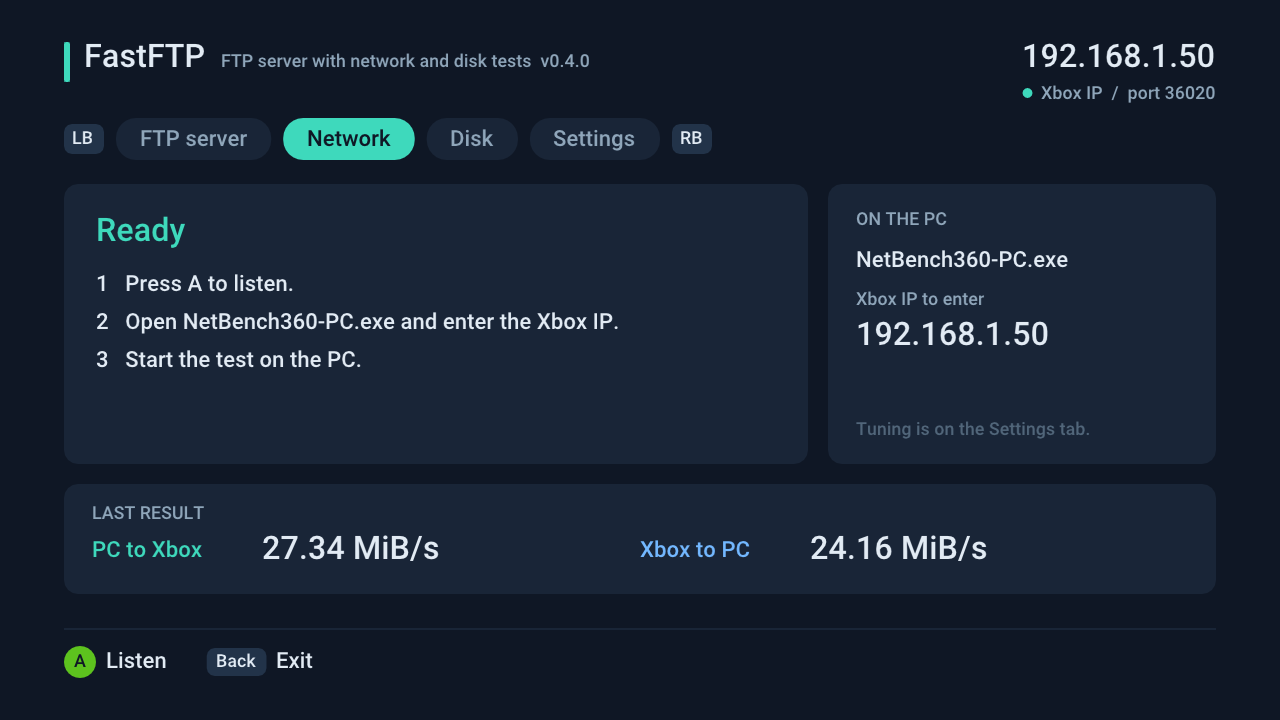
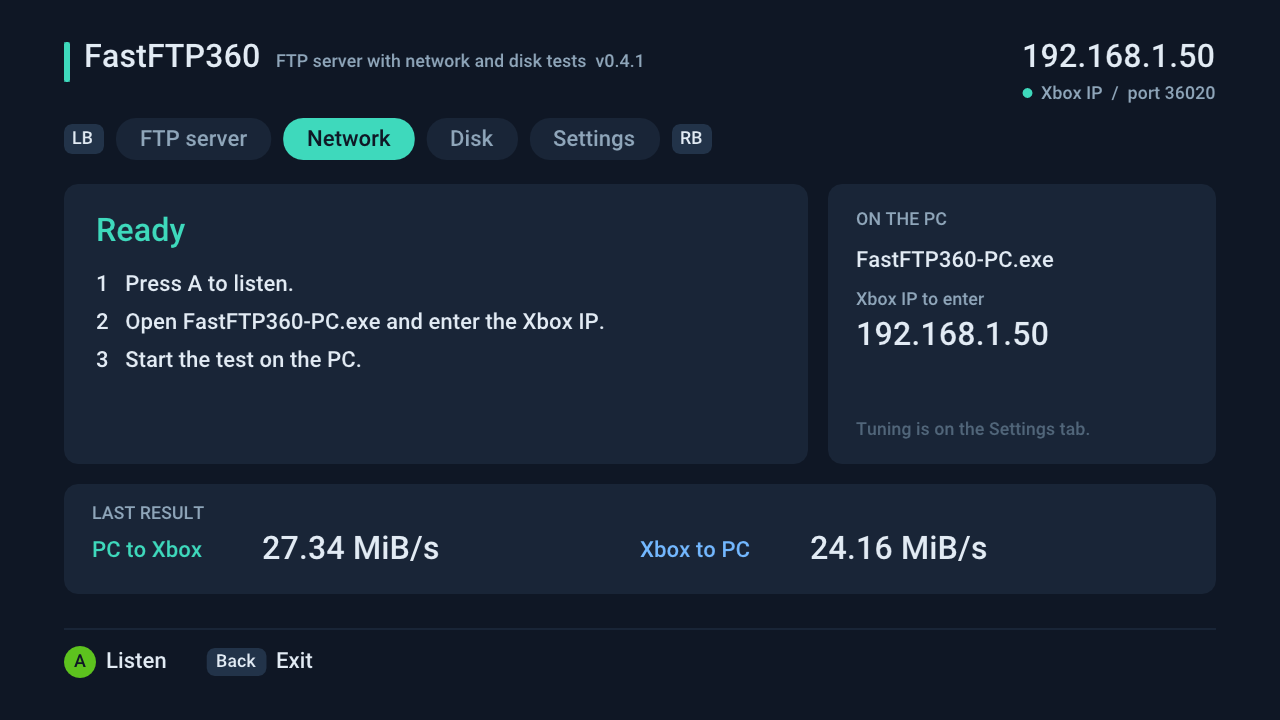
Rename the app to FastFTP360
FastFTP is also the name of other FTP tools, so the app, PC app, solution,
settings and log files, logo and screenshots now say FastFTP360. A login
saved in the old FastFTP.ini is still read when FastFTP360.ini is missing.

Claude-Session: https://claude.ai/code/session_01MH4np41oYb3iuEGTSw1Z1c

Changed region(s): [[0.125, 0.4278, 0.5, 0.4583], [0.1562, 0.0611, 0.5, 0.0917], [0.6562, 0.3361, 0.8438, 0.3972]]

diff --git a/xbox/main.cpp b/xbox/main.cpp
@@ -29,10 +29,12 @@ static int CpuChoice=0;
 static bool DrawDuringTransfers=false;
 // FTP login. Required by default; switching it off lets any user name in.
 // The user can change both with the on-screen keyboard (Y on the FTP tab);
-// they are kept in FastFTP.ini next to the XEX.
+// they are kept in FastFTP360.ini next to the XEX.
 static bool FtpLoginRequired=true;
 static char FtpUser[nb::FtpLoginMax+1]="xboxftp",FtpPassword[nb::FtpLoginMax+1]="xboxftp";
-static const char LoginFile[]="game:\\FastFTP.ini";
+static const char LoginFile[]="game:\\FastFTP360.ini";
+// Read when FastFTP360.ini is missing, so a login saved before the rename carries over.
+static const char OldLoginFile[]="game:\\FastFTP.ini";
 // On-screen keyboard: 0 closed, 1 asking for the user name, 2 for the password.
 static int KeyboardStep=0;
 static DWORD KeyboardPad=0;
@@ -89,8 +91,8 @@ static int CompareRoots(const void* a,const void* b) {
 }
 
 // FTP log, next to the XEX. Every line starts with the local date and time.
-// A log over 1 MiB is moved to FastFTP.old.log when the server starts.
-static const char LogFile[]="game:\\FastFTP.log",OldLogFile[]="game:\\FastFTP.old.log";
+// A log over 1 MiB is moved to FastFTP360.old.log when the server starts.
+static const char LogFile[]="game:\\FastFTP360.log",OldLogFile[]="game:\\FastFTP360.old.log";
 static CRITICAL_SECTION LogLock;
 static void WriteLog(const char* text) {
     SYSTEMTIME now; GetLocalTime(&now);
@@ -118,6 +120,7 @@ static void RotateLog() {
 
 static void LoadLogin() {
     HANDLE file=CreateFile(LoginFile,GENERIC_READ,FILE_SHARE_READ,NULL,OPEN_EXISTING,FILE_ATTRIBUTE_NORMAL,NULL);
+    if(file==INVALID_HANDLE_VALUE) file=CreateFile(OldLoginFile,GENERIC_READ,FILE_SHARE_READ,NULL,OPEN_EXISTING,FILE_ATTRIBUTE_NORMAL,NULL);
     if(file==INVALID_HANDLE_VALUE) return;
     char text[512]; DWORD read=0;
     if(ReadFile(file,text,sizeof(text)-1,&read,NULL)) { text[read]=0; nb::ParseFtpLogin(text,FtpLoginRequired,FtpUser,FtpPassword); }
@@ -280,11 +283,11 @@ static DWORD WINAPI DiskThread(void*) {
     const DiskTarget& target=DiskTargets[DiskChoice];
     const DWORD block=DiskBlocks[DiskBlockChoice];
     bool linked=false;
-    const char* path="game:\\FASTFTP-DISKTEST.TMP";
+    const char* path="game:\\FASTFTP360-DISKTEST.TMP";
     if(target.device) {
         LONG status=LinkDrive("\\??\\NBDISK:",target.device);
         if(status<0) { DiskFailure("%s not found or not mountable (0x%08X).",target.name,DWORD(status)); return 0; }
-        linked=true; path="NBDISK:\\FASTFTP-DISKTEST.TMP";
+        linked=true; path="NBDISK:\\FASTFTP360-DISKTEST.TMP";
     }
     unsigned char* buffer=static_cast<unsigned char*>(VirtualAlloc(NULL,block,MEM_COMMIT,PAGE_READWRITE));
     unsigned char* check=static_cast<unsigned char*>(VirtualAlloc(NULL,block,MEM_COMMIT,PAGE_READWRITE));
@@ -497,7 +500,7 @@ static void PollKeyboard() {
     strcpy_s(FtpUser,PendingUser); strcpy_s(FtpPassword,text); FtpLoginRequired=true; DescribeSettings();
     LeaveCriticalSection(&StateLock);
     char line[80]; _snprintf_s(line,sizeof(line),_TRUNCATE,"FTP login changed on the Xbox (user %s)",PendingUser); WriteLog(line);
-    LoginMessage(SaveLogin() ? "Login changed and saved in FastFTP.ini." : "Login changed, but FastFTP.ini could not be saved.");
+    LoginMessage(SaveLogin() ? "Login changed and saved in FastFTP360.ini." : "Login changed, but FastFTP360.ini could not be saved.");
 }
 
 static bool InitGraphics() {

diff --git a/shared/ui.cpp b/shared/ui.cpp
@@ -118,11 +118,11 @@ static void Status(const UiState& s,float x,float y,float w,float h) {
             if(s.streams>1) _snprintf_s(text,sizeof(text),_TRUNCATE,"%s  /  %.1f s  /  %.1f MiB  /  %d streams",way,s.elapsed,s.mebibytes,s.streams);
             else _snprintf_s(text,sizeof(text),_TRUNCATE,"%s  /  %.1f s  /  %.1f MiB",way,s.elapsed,s.mebibytes);
         } else if(s.armed) {
-            lines[0]="Listening. In FastFTP-PC.exe on the same network,";
+            lines[0]="Listening. In FastFTP360-PC.exe on the same network,";
             lines[1]="enter the Xbox IP shown above and start the test.";
         } else {
             lines[0]="1   Press A to listen.";
-            lines[1]="2   Open FastFTP-PC.exe and enter the Xbox IP.";
+            lines[1]="2   Open FastFTP360-PC.exe and enter the Xbox IP.";
             lines[2]="3   Start the test on the PC.";
         }
     }
@@ -179,7 +179,7 @@ static void Settings(const UiState& s,float x,float y,float w,float h) {
 static void PcApp(const UiState& s,float x,float y,float w,float h) {
     Box(x,y,w,h,Hex(Card),14);
     Text(Small,x+28,y+24,Hex(Muted),"ON THE PC");
-    Text(Body,x+28,y+62,Hex(White),"FastFTP-PC.exe");
+    Text(Body,x+28,y+62,Hex(White),"FastFTP360-PC.exe");
     Text(Small,x+28,y+104,Hex(Muted),"Xbox IP to enter");
     Text(Heading,x+28,y+130,Hex(White),s.ip);
     Text(Small,x+28,y+h-46,Hex(Dim),"Tuning is on the Settings tab.");
@@ -188,9 +188,9 @@ static void PcApp(const UiState& s,float x,float y,float w,float h) {
 static void Files(float x,float y,float w,float h) {
     Box(x,y,w,h,Hex(Card),14);
     Text(Small,x+28,y+18,Hex(Muted),"FILES NEXT TO THE XEX");
-    Text(Body,x+28,y+52,Hex(White),"FastFTP.ini");
+    Text(Body,x+28,y+52,Hex(White),"FastFTP360.ini");
     Text(Body,x+200,y+52,Hex(Muted),"FTP login");
-    Text(Body,x+460,y+52,Hex(White),"FastFTP.log");
+    Text(Body,x+460,y+52,Hex(White),"FastFTP360.log");
     Text(Body,x+640,y+52,Hex(Muted),"FTP activity");
 }
 
@@ -255,15 +255,15 @@ static void Footer(const UiState& s,float y) {
 void DrawUi(const UiState& s) {
     ImGui::NewFrame();
     ImGui::SetNextWindowPos(ImVec2(0,0)); ImGui::SetNextWindowSize(ImVec2(1280,720));
-    ImGui::Begin("FastFTP",NULL,ImGuiWindowFlags_NoDecoration|ImGuiWindowFlags_NoBackground|ImGuiWindowFlags_NoInputs|ImGuiWindowFlags_NoSavedSettings);
+    ImGui::Begin("FastFTP360",NULL,ImGuiWindowFlags_NoDecoration|ImGuiWindowFlags_NoBackground|ImGuiWindowFlags_NoInputs|ImGuiWindowFlags_NoSavedSettings);
     List=ImGui::GetWindowDrawList();
     List->AddRectFilled(ImVec2(0,0),ImVec2(1280,720),Hex(Background));
     char text[128];
 
     // Header: name and version, then the address to type into the PC app.
     Box(Left,Top+6,6,40,Hex(Green),3);
-    Text(Heading,Left+20,Top,Hex(White),"FastFTP");
-    Text(Small,Left+20+Width(Heading,"FastFTP")+16,Top+14,Hex(Muted),"FTP server with network and disk tests  v0.4.1");
+    Text(Heading,Left+20,Top,Hex(White),"FastFTP360");
+    Text(Small,Left+20+Width(Heading,"FastFTP360")+16,Top+14,Hex(Muted),"FTP server with network and disk tests  v0.4.1");
     bool online=strchr(s.ip,'.')!=NULL;
     TextRight(Heading,Right,Top,Hex(online ? White : Muted),s.ip);
     // The port only matters on the tabs that listen for the PC.

diff --git a/windows/Program.cs b/windows/Program.cs
@@ -11,7 +11,7 @@ using System.Threading;
 using System.Threading.Tasks;
 using System.Windows.Forms;
 
-namespace FastFTP {
+namespace FastFTP360 {
     sealed class MainForm : Form {
         readonly Color navy=Color.FromArgb(15,23,37), panel=Color.FromArgb(25,37,55), ink=Color.FromArgb(226,235,244), accent=Color.FromArgb(62,217,188);
         TextBox ip,driver; ComboBox direction,duration,repeats,buffers,limits,streams,check; CheckBox pauseDrawing; Button start,stop,save;
@@ -19,10 +19,10 @@ namespace FastFTP {
         readonly List<TestResult> results=new List<TestResult>();
         CancellationTokenSource cancellation; bool running,closeRequested; int testSeconds,activeLimit;
         public MainForm() {
-            Text="FastFTP network test v0.4.1"; ClientSize=new Size(1050,735); MinimumSize=new Size(1066,774);
+            Text="FastFTP360 network test v0.4.1"; ClientSize=new Size(1050,735); MinimumSize=new Size(1066,774);
             StartPosition=FormStartPosition.CenterScreen; BackColor=navy; ForeColor=ink; Font=new Font("Segoe UI",10);
             AutoScaleMode=AutoScaleMode.Dpi;
-            LabelAt("FASTFTP NETWORK TEST",26,20,520,40,24,FontStyle.Bold);
+            LabelAt("FASTFTP360 NETWORK TEST",26,20,520,40,24,FontStyle.Bold);
             LabelAt("Diagnostic defaults reduce Xbox sending load. Capped results do not measure maximum speed.",28,65,994,28,11);
             LabelAt("XBOX IP ADDRESS",28,119,190,22,9); ip=TextAt("",28,144,190); ip.AccessibleName="Xbox IP address";
             LabelAt("DRIVER LABEL",236,119,210,22,9); driver=TextAt("TxScan",236,144,210); driver.AccessibleName="Driver label";
@@ -164,7 +164,7 @@ namespace FastFTP {
         }
         static string Csv(object value) { return "\""+Convert.ToString(value,CultureInfo.InvariantCulture).Replace("\"","\"\"")+"\""; }
         void Save(object sender,EventArgs args) {
-            using(var dialog=new SaveFileDialog { Filter="CSV results (*.csv)|*.csv",FileName="FastFTP-network-"+DateTime.Now.ToString("yyyyMMdd-HHmm")+".csv" }) {
+            using(var dialog=new SaveFileDialog { Filter="CSV results (*.csv)|*.csv",FileName="FastFTP360-network-"+DateTime.Now.ToString("yyyyMMdd-HHmm")+".csv" }) {
                 if(dialog.ShowDialog()!=DialogResult.OK) return;
                 var lines=new List<string> { "utc,driver_label,xbox_ip,run,direction,requested_seconds,receiver_bytes,receiver_seconds,average_MiB_s,min_1s_MiB_s,max_1s_MiB_s,full_sample_count,integrity_bytes,requested_socket_bytes,pc_send_bytes,pc_receive_bytes,xbox_send_bytes,xbox_receive_bytes,warmup_MiB,xbox_send_limit_MiB_s,xbox_drawing_paused,streams,verified_bytes" };
                 foreach(var r in results) lines.Add(String.Join(",",new object[]{r.Utc,r.Driver,r.Address,r.Run,r.DirectionText,r.RequestedSeconds,r.Bytes,r.Microseconds/1000000.0,r.Rate,r.Minimum,r.Maximum,r.Samples,1048576,r.RequestedBuffer,r.PcSendBuffer,r.PcRecvBuffer,r.XboxSendBuffer,r.XboxRecvBuffer,32,r.XboxSendLimit,r.XboxDrawingPaused,r.Streams,r.Verified}.Select(Csv)));

diff --git a/tests/ui_preview.cpp b/tests/ui_preview.cpp
@@ -83,7 +83,7 @@ int main(int argc,char** argv) {
         strcpy_s(state.message,"Folders: Game Hdd1 HddX SysExt System Usb0 USBMU0 USBMUCache0");
         strcpy_s(state.ftp,"Upload, 1024.0 MiB in 41.3 s: 24.79 MiB/s");
         static const nb::UiTransfer recent[]={{"Halo 3 - Disc 1 (Title Update 12, all DLC included).iso",7120.4,27.48,1,1},
-            {"default.xex",14.2,21.37,0,1},{"FastFTP.log",0.006,0.9,0,1},{"backup.bin",388.0,0,1,0},{"Content.zip",1024.0,26.91,1,1}};
+            {"default.xex",14.2,21.37,0,1},{"FastFTP360.log",0.006,0.9,0,1},{"backup.bin",388.0,0,1,0},{"Content.zip",1024.0,26.91,1,1}};
         memcpy(state.recent,recent,sizeof(recent)); state.recentCount=5;
     } else if(!strcmp(scene,"ftpon")) {
         state.tab=nb::TabFtp; state.armed=1; state.busy=1; state.ftpPhase=1; state.focus=0;

diff --git a/tests/ftp.py b/tests/ftp.py
@@ -190,7 +190,7 @@ with tempfile.TemporaryDirectory() as temp:
               len(log) == len(expected) and all(line.startswith("127.0.0.1  " + text) for line, text in zip(log, expected)))
 
     def login_file(text):
-        path = Path(temp) / "FastFTP.ini"
+        path = Path(temp) / "FastFTP360.ini"
         path.write_bytes(text.encode("latin-1"))
         out = subprocess.run([str(ROOT / "build/host/ftp-host.exe"), "--login-file", str(path)],
                              capture_output=True, text=True, timeout=10).stdout.split()

diff --git a/shared/ftp.cpp b/shared/ftp.cpp
@@ -447,7 +447,7 @@ void Session::Store(const char* argument) {
 
 void Session::Run() {
     Log("Connected");
-    Reply(shared_.user ? "220 FastFTP ready." : "220 FastFTP ready. Any user name and password.");
+    Reply(shared_.user ? "220 FastFTP360 ready." : "220 FastFTP360 ready. Any user name and password.");
     char line[600];
     while(!Cancelled() && ReadCommand(line,sizeof(line))) {
         char verb[8]={0}; const char* argument=line;

diff --git a/windows/Engine.cs b/windows/Engine.cs
@@ -5,7 +5,7 @@ using System.Net;
 using System.Net.Sockets;
 using System.Threading;
 
-namespace FastFTP {
+namespace FastFTP360 {
     public sealed class TestResult {
         public string Driver, Address, Utc;
         public int Direction, Run, RequestedSeconds, RequestedBuffer, PcSendBuffer, PcRecvBuffer, XboxSendBuffer, XboxRecvBuffer, Streams=1;

diff --git a/tests/client_cli.cs b/tests/client_cli.cs
@@ -1,7 +1,7 @@
 // SPDX-License-Identifier: MIT
 using System;
 using System.Threading;
-using FastFTP;
+using FastFTP360;
 class ClientTest {
     static int Main(string[] args) {
         Thread.CurrentThread.CurrentCulture=System.Globalization.CultureInfo.InvariantCulture;

diff --git a/README.md b/README.md
@@ -1,5 +1,5 @@
 <p align="center">
-  <img src="docs/images/logo.png" alt="FastFTP for homebrew Xbox 360" width="440">
+  <img src="docs/images/logo.png" alt="FastFTP360 for homebrew Xbox 360" width="500">
 </p>
 
 <p align="center">
@@ -7,19 +7,19 @@
 </p>
 
 <p align="center">
-  <img src="docs/images/screen-ftp-upload.png" alt="FastFTP receiving an upload at 26 MiB/s, with the last five transfers listed" width="800">
+  <img src="docs/images/screen-ftp-upload.png" alt="FastFTP360 receiving an upload at 26 MiB/s, with the last five transfers listed" width="800">
 </p>
 
-FastFTP moves files between your PC and the Xbox's internal drive or USB storage using any regular FTP client, such as FileZilla. It reads and writes the disk **while** the network transfer is running, instead of one after the other. With a USB Ethernet adapter, uploads to the Xbox have reached about **27.5 MiB/s**, where Aurora's built-in FTP managed about 19.5 MiB/s on the same console.
+FastFTP360 moves files between your PC and the Xbox's internal drive or USB storage using any regular FTP client, such as FileZilla. It reads and writes the disk **while** the network transfer is running, instead of one after the other. With a USB Ethernet adapter, uploads to the Xbox have reached about **27.5 MiB/s**, where Aurora's built-in FTP managed about 19.5 MiB/s on the same console.
 
 - **Works like Aurora's FTP:** the same folder names (`Hdd1`, `Usb0`, `Game`...), so your paths and bookmarks keep working.
-- **Your own login:** `xboxftp` / `xboxftp` by default. Change it with the Xbox keyboard or in `FastFTP.ini`.
-- **Last 5 transfers** on screen with file name, size and speed. Everything is also written to `FastFTP.log`.
+- **Your own login:** `xboxftp` / `xboxftp` by default. Change it with the Xbox keyboard or in `FastFTP360.ini`.
+- **Last 5 transfers** on screen with file name, size and speed. Everything is also written to `FastFTP360.log`.
 - **Network test and disk test** built in, to find out whether the network, the drive or the FTP client is the slow part.
 
-**Best with [CUsbEnet](https://github.com/marcusisdahl/CUsbEnet).** FastFTP was made alongside CUsbEnet 1.1, a USB Ethernet driver plugin for the Xbox 360. Together they're the fastest way we know of to copy files to an Xbox 360 over FTP. All the speeds on this page were measured with a TP-Link UE306 adapter on CUsbEnet. FastFTP also works over the console's built-in network port.
+**Best with [CUsbEnet](https://github.com/marcusisdahl/CUsbEnet).** FastFTP360 was made alongside CUsbEnet 1.1, a USB Ethernet driver plugin for the Xbox 360. Together they're the fastest way we know of to copy files to an Xbox 360 over FTP. All the speeds on this page were measured with a TP-Link UE306 adapter on CUsbEnet. FastFTP360 also works over the console's built-in network port.
 
-FastFTP is experimental homebrew. Read [Safety](#safety) before using it on files you care about.
+FastFTP360 is experimental homebrew. Read [Safety](#safety) before using it on files you care about.
 
 ## Contents
 
@@ -38,8 +38,8 @@ FastFTP is experimental homebrew. Read [Safety](#safety) before using it on file
 
 You need a console that runs homebrew (XEX) applications, a working network connection, and a PC on the same home network. If you use a USB Ethernet adapter, keep its driver loaded as usual. For the speeds shown here, use [CUsbEnet](https://github.com/marcusisdahl/CUsbEnet) 1.1.
 
-1. Download `FastFTP-<version>.zip` from the [Releases page](https://github.com/marcusisdahl/Xbox360_FastFTP/releases).
-2. Copy `FastFTP.xex` to its own folder on the Xbox, for example `Hdd1:\Apps\FastFTP\`.
+1. Download `FastFTP360-<version>.zip` from the [Releases page](https://github.com/marcusisdahl/Xbox360_FastFTP/releases).
+2. Copy `FastFTP360.xex` to its own folder on the Xbox, for example `Hdd1:\Apps\FastFTP360\`.
 3. Start it from Aurora, XeXMenu or your usual launcher. **Do not** add it to `launch.ini`: it is an app, not a plugin.
 4. The app opens on the **FTP server** tab. Press **A** to start the server.
 5. In your FTP client, connect with:
@@ -54,7 +54,7 @@ You need a console that runs homebrew (XEX) applications, a working network conn
 
 6. When you are done, press **B** to stop the server, then **Back** to exit to the dashboard.
 
-`FastFTP-PC.exe` in the zip is only for the network test. You don't need it for FTP.
+`FastFTP360-PC.exe` in the zip is only for the network test. You don't need it for FTP.
 
 ## The screens
 
@@ -74,7 +74,7 @@ These images are drawn by the same screen code the console runs (`tests/ui_previ
 
 The default user name and password are both `xboxftp`. To choose your own, press **Y** on the FTP server tab while the server is stopped. The Xbox keyboard asks for the user name and then the password: 1 to 23 letters, digits or symbols, no spaces. Cancelling either one leaves the login unchanged.
 
-On the FTP tab, **D-pad Left/Right** switches the login off, so any user name and password work. The login is saved in `FastFTP.ini` next to the XEX, which you can also edit on a PC:
+On the FTP tab, **D-pad Left/Right** switches the login off, so any user name and password work. The login is saved in `FastFTP360.ini` next to the XEX, which you can also edit on a PC:
 
 ```ini
 login=on
@@ -90,7 +90,7 @@ The top level lists the drives the way Aurora's FTP does, sorted by name, so pat
 
 | FTP path | Contents |
 |---|---|
-| `/Game/` | The drive and folder FastFTP was started from |
+| `/Game/` | The drive and folder FastFTP360 was started from |
 | `/Hdd1/` | The internal hard drive |
 | `/HddX/`, `/SysExt/`, `/System/` | Hard drive system partitions |
 | `/Usb0/` to `/Usb2/` | USB storage devices |
@@ -98,7 +98,7 @@ The top level lists the drives the way Aurora's FTP does, sorted by name, so pat
 
 ### Transfer list and log file
 
-The FTP tab lists the last five finished transfers with their file name, size and speed, newest first. Every event is also written to `FastFTP.log` next to the XEX:
+The FTP tab lists the last five finished transfers with their file name, size and speed, newest first. Every event is also written to `FastFTP360.log` next to the XEX:
 
 ```text
 2026-10-13 18:40:12  FTP server started on 192.168.1.50 port 21, login xboxftp. Folders: Game Hdd1 Usb0
@@ -106,7 +106,7 @@ The FTP tab lists the last five finished transfers with their file name, size an
 2026-10-13 18:44:52  192.168.1.20  Upload /Hdd1/Games/game.iso, 7466336256 bytes in 259.10 s (27.48 MiB/s)
 ```
 
-Wrong logins, downloads, deletes, renames, new folders and disconnects are logged too. When the log grows past 1 MiB, it is moved to `FastFTP.old.log` the next time the server starts.
+Wrong logins, downloads, deletes, renames, new folders and disconnects are logged too. When the log grows past 1 MiB, it is moved to `FastFTP360.old.log` the next time the server starts.
 
 ### What the server supports
 
@@ -122,10 +122,10 @@ Wrong logins, downloads, deletes, renames, new folders and disconnects are logge
 The network test measures raw TCP speed between the PC and the Xbox's memory, with no disk involved. Use it to check what your network adapter and driver can do before blaming the disk or the FTP client.
 
 1. On the **Network** tab, press **A**. The Xbox listens on port **36020**.
-2. On the PC, run `FastFTP-PC.exe` and enter the Xbox IP.
+2. On the PC, run `FastFTP360-PC.exe` and enter the Xbox IP.
 3. Pick a direction, duration and number of streams, then start the test.
 
-<p align="center"><img src="docs/images/screen-pc-app.png" alt="FastFTP-PC.exe, the network test's PC app" width="640"></p>
+<p align="center"><img src="docs/images/screen-pc-app.png" alt="FastFTP360-PC.exe, the network test's PC app" width="640"></p>
 
 The PC app can run 1, 2 or 4 TCP streams, check every byte (**All data**), limit the Xbox's send rate, and save results to CSV. Each stream first checks 1 MiB of known data and warms up with 32 MiB, then runs the timed transfer. The receiver reports the final rate. Use the PC app from the same release as the XEX. Versions with a different protocol are rejected.
 
@@ -135,7 +135,7 @@ The Xbox send limit applies **per stream**. While data moves, the Xbox holds a s
 
 On the **Disk** tab, use the D-pad to pick the drive (app drive, HDD, USB 0 or USB 1) and the block size (64 KiB, 256 KiB or 1 MiB), then press **A**.
 
-The test writes a **256 MiB** file named `FASTFTP-DISKTEST.TMP`, including the final flush. It then reads the file back without the cache, checks every byte, and deletes it. You need more than 256 MiB free. **B** cancels.
+The test writes a **256 MiB** file named `FASTFTP360-DISKTEST.TMP`, including the final flush. It then reads the file back without the cache, checks every byte, and deletes it. You need more than 256 MiB free. **B** cancels.
 
 USB storage and a USB Ethernet adapter share the Xbox's USB bandwidth. So FTP to a USB drive is much slower than FTP to the internal drive, even though both disks are fast on their own.
 
@@ -151,7 +151,7 @@ The **Settings** tab holds options most people never need. While stopped, **D-pa
 
 ## Why it is faster
 
-A simple FTP server reads or writes a chunk of the file, then sends or receives it over the network, then repeats, so the disk and the network take turns waiting. FastFTP gives each transfer a helper thread and **two 1 MiB buffers**:
+A simple FTP server reads or writes a chunk of the file, then sends or receives it over the network, then repeats, so the disk and the network take turns waiting. FastFTP360 gives each transfer a helper thread and **two 1 MiB buffers**:
 
 - **Upload:** the network fills one buffer while the helper writes the other to disk. The file is flushed before the transfer is reported as complete.
 - **Download:** the helper reads ahead into one buffer while the network sends the other.
@@ -163,7 +163,7 @@ Measured on one console with a TP-Link UE306 USB Ethernet adapter and the [CUsbE
 | | PC to Xbox |
 |---|---|
 | Network test (RAM to RAM) | about 27.7 MiB/s |
-| FastFTP upload to the internal drive | about 27.5 MiB/s |
+| FastFTP360 upload to the internal drive | about 27.5 MiB/s |
 | Aurora's built-in FTP | about 19.5 MiB/s |
 | Internal drive on its own (disk test) | about 57 MiB/s |
 
@@ -171,12 +171,12 @@ At this point the Xbox's USB 2 controller is the limit, not the disk or the FTP 
 
 ## Safety
 
-- **Nothing is encrypted**, including the login. Use FastFTP only on a trusted home network, never port-forward it to the internet, and stop it with **B** when you are done.
+- **Nothing is encrypted**, including the login. Use FastFTP360 only on a trusted home network, never port-forward it to the internet, and stop it with **B** when you are done.
 - Anyone who logs in can overwrite and delete files on every listed drive, including the system partitions. Keep backups of anything important.
-- FastFTP is an app you start yourself. It does not install itself, change `launch.ini`, patch the kernel, write NAND, or change your network driver. It writes only the files your FTP client sends, its own `FastFTP.ini` and `FastFTP.log`, and the disk test's temporary file.
+- FastFTP360 is an app you start yourself. It does not install itself, change `launch.ini`, patch the kernel, write NAND, or change your network driver. It writes only the files your FTP client sends, its own `FastFTP360.ini` and `FastFTP360.log`, and the disk test's temporary file.
 - Homebrew can still crash or hang the console. Keep a known-good driver and your usual recovery method.
 
-The host tests run the same FTP server code on Windows with Python's `ftplib`. They cover file operations, exact byte counts, path handling, the login, `FastFTP.ini`, the log, and simultaneous sessions. They are not a substitute for testing on a console. See the [changelog](CHANGELOG.md) for what has and hasn't been tested on hardware, and the [crash investigation](docs/CRASH-INVESTIGATION.md) for an earlier console freeze during network tests.
+The host tests run the same FTP server code on Windows with Python's `ftplib`. They cover file operations, exact byte counts, path handling, the login, `FastFTP360.ini`, the log, and simultaneous sessions. They are not a substitute for testing on a console. See the [changelog](CHANGELOG.md) for what has and hasn't been tested on hardware, and the [crash investigation](docs/CRASH-INVESTIGATION.md) for an earlier console freeze during network tests.
 
 ## Build from source
 
@@ -188,7 +188,7 @@ From PowerShell in the repository:
 .\build.ps1
 ```
 
-This produces `build\xbox\FastFTP.xex` (the Xbox app) and `build\windows\FastFTP-PC.exe` (the network test's PC app). The `.exe` next to the XEX is an intermediate PowerPC file, not the PC app. You can also open `FastFTP.sln` and build **Release | Xbox 360**. The project uses `DEVKIT_ONLY=0` for retail consoles and never deploys to a console automatically.
+This produces `build\xbox\FastFTP360.xex` (the Xbox app) and `build\windows\FastFTP360-PC.exe` (the network test's PC app). The `.exe` next to the XEX is an intermediate PowerPC file, not the PC app. You can also open `FastFTP360.sln` and build **Release | Xbox 360**. The project uses `DEVKIT_ONLY=0` for retail consoles and never deploys to a console automatically.
 
 To build the PC app and run the host tests without the Xbox SDK (needs Python 3):
 
@@ -200,7 +200,7 @@ To build the PC app and run the host tests without the Xbox SDK (needs Python 3)
 
 ## Project history
 
-FastFTP grew out of **NetBench360**, a network benchmark for testing USB Ethernet drivers on the Xbox 360. Its FTP server turned out to be faster than Aurora's, so it became its own project. Version 0.4.0 renamed the XEX, the PC app and the Visual Studio solution to FastFTP.
+FastFTP360 grew out of **NetBench360**, a network benchmark for testing USB Ethernet drivers on the Xbox 360. Its FTP server turned out to be faster than Aurora's, so it became its own project. Version 0.4.0 renamed the XEX, the PC app and the Visual Studio solution to FastFTP, and they were renamed again to FastFTP360 after 0.4.1 so the name is easier to tell apart from other FTP tools.
 
 ## License
 

diff --git a/CHANGELOG.md b/CHANGELOG.md
@@ -1,5 +1,9 @@
 # Changes
 
+## Unreleased
+
+- Renamed to **FastFTP360**, since "FastFTP" is also the name of other FTP tools: `FastFTP360.xex`, `FastFTP360-PC.exe`, `FastFTP360.sln`, the screen header, the FTP greeting, the logo, `FastFTP360.ini`, `FastFTP360.log` and the disk test's `FASTFTP360-DISKTEST.TMP`. A login saved in the old `FastFTP.ini` is still read when `FastFTP360.ini` doesn't exist yet, and the next login change saves it under the new name. Old `FastFTP.log` files are left alone.
+
 ## 0.4.1
 
 The first published release of the 0.4 work. The 0.4.0 tag pointed at an earlier commit, from before the rename to FastFTP and the new README, so 0.4.1 replaces it. Apart from the version number, the code is the same as the 0.4.0 files.
